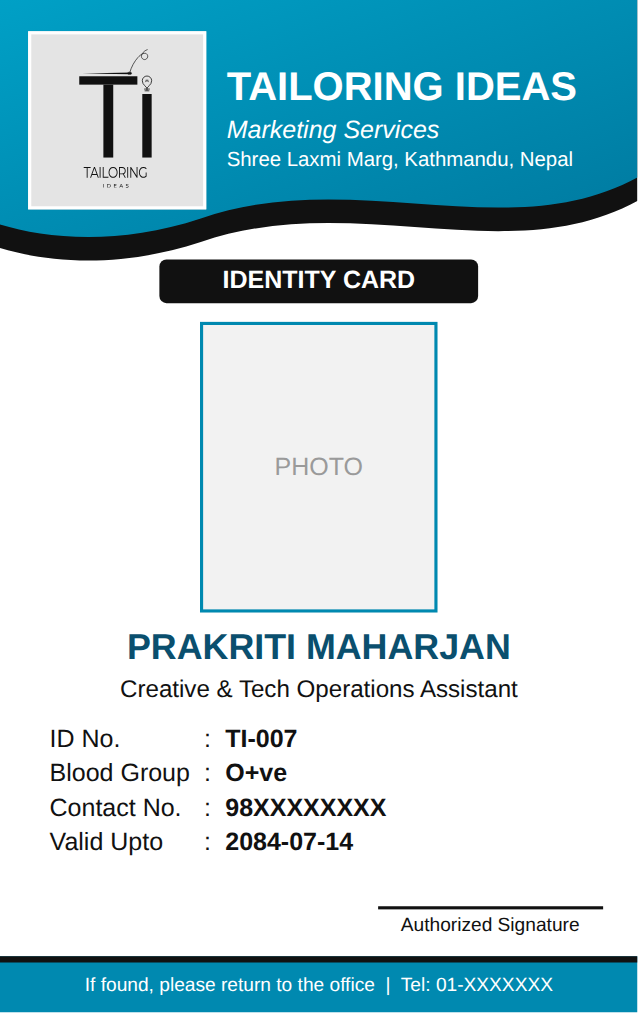
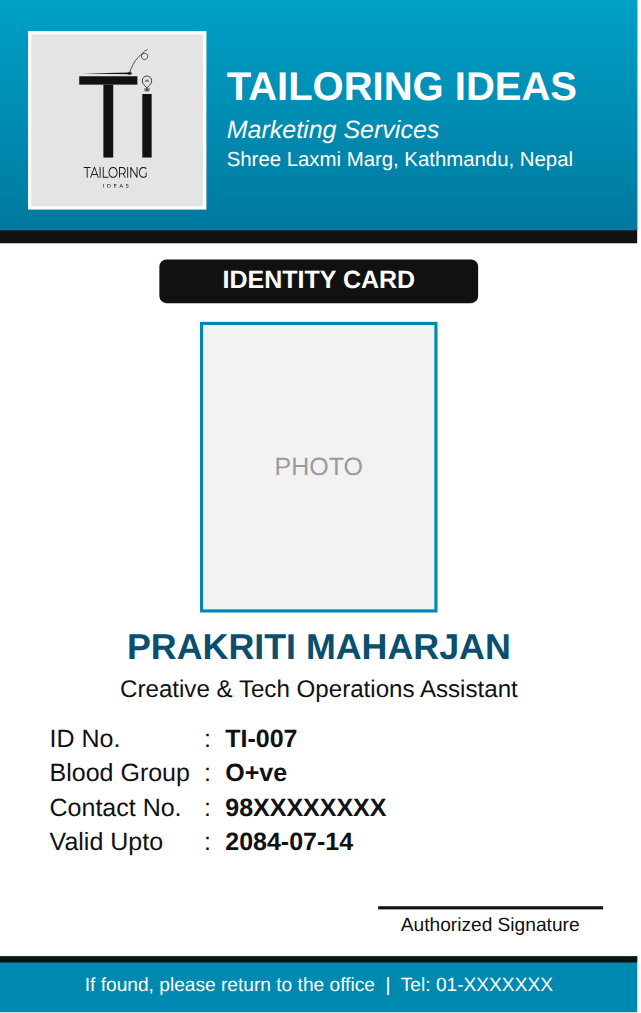
ID card: replace curved header with straight band
Claude-Session: https://claude.ai/code/session_01GwBVucJgBf5TVusLs3gvcd

Changed region(s): [[0.0, 0.153, 0.9984, 0.2754]]

diff --git a/Employee_ID_Card/Final_Option1/ID_Card_Front.html b/Employee_ID_Card/Final_Option1/ID_Card_Front.html
@@ -23,9 +23,9 @@ td:nth-child(2){padding:0 1.2mm}
 @page{size:54mm 85.6mm;margin:0}body{margin:0}</style></head><body>
 <div class="card">
   <svg class="wave" viewBox="0 0 540 250" preserveAspectRatio="none">
-    <defs><linearGradient id="g" x1="0" y1="0" x2="1" y2="1"><stop offset="0" stop-color="#00a0c6"/><stop offset="1" stop-color="#00799f"/></linearGradient></defs>
-    <path d="M0 0 H540 V170 C 430 230, 300 160, 170 205 C 100 228, 40 222, 0 210 Z" fill="#111"/>
-    <path d="M0 0 H540 V150 C 430 210, 300 140, 170 185 C 100 208, 40 202, 0 190 Z" fill="url(#g)"/>
+    <defs><linearGradient id="g" x1="0" y1="0" x2="0" y2="1"><stop offset="0" stop-color="#00a0c6"/><stop offset="1" stop-color="#00799f"/></linearGradient></defs>
+    <rect x="0" y="0" width="540" height="206" fill="#111"/>
+    <rect x="0" y="0" width="540" height="195" fill="url(#g)"/>
   </svg>
   <div class="hd">
     <div class="lg"><svg xmlns="http://www.w3.org/2000/svg" viewBox="-12 6 216 302"><rect x="22" y="72" width="118" height="17" fill="#111111"/><rect x="71" y="89" width="20" height="148" fill="#111111"/><rect x="150" y="108" width="19" height="129" fill="#111111"/><path d="M28 66.2 L128 64.2 L128 67.8 Z" fill="#111111"/><ellipse cx="124" cy="66" rx="4.2" ry="2.2" fill="none" stroke="#111111" stroke-width="1.3"/><path d="M124 66 C 128 52, 134 42, 141 34 C 147 27, 156 22, 160 28 C 164 34, 156 42, 150 36 C 145 31, 151 21, 160 18" fill="none" stroke="#111111" stroke-width="1.4" stroke-linecap="round"/><path d="M159.5 101 L159.5 97 C 159.5 93, 150 90, 150 81 A 9.5 9.5 0 1 1 169 81 C 169 90, 159.5 93, 159.5 97" fill="none" stroke="#111111" stroke-width="1.6" stroke-linejoin="round"/><path d="M154.5 98 H164.5 M155.5 101.5 H163.5" stroke="#111111" stroke-width="1.6" stroke-linecap="round"/><path d="M156 84 L158 79 L159.5 83 L161 79 L163 84" fill="none" stroke="#111111" stroke-width="1" stroke-linejoin="round"/><path d="M37.16319999999999 278.0V258.284H31.062399999999986V256.3H45.09919999999999V258.284H38.99839999999999V278.0Z M44.04799999999999 278.0 51.98399999999999 256.3H53.79439999999999L61.73039999999999 278.0H59.79599999999999L52.50479999999999 257.633H53.24879999999999L45.95759999999999 278.0ZM47.17279999999999 272.203 47.71839999999999 270.343H57.81199999999999L58.35759999999999 272.203Z M63.40719999999999 278.0V256.3H65.24239999999999V278.0Z M69.6968 278.0V256.3H71.532V276.016H81.25359999999999V278.0Z M90.69279999999999 278.186Q88.7336 278.186 87.05959999999999 277.3645Q85.3856 276.543 84.15799999999999 275.0395Q82.93039999999999 273.536 82.24839999999999 271.5365Q81.56639999999999 269.537 81.56639999999999 267.15Q81.56639999999999 264.763 82.24839999999999 262.7635Q82.93039999999999 260.764 84.15799999999999 259.2605Q85.3856 257.757 87.0472 256.9355Q88.7088 256.114 90.69279999999999 256.114Q92.652 256.114 94.31360000000001 256.9355Q95.9752 257.757 97.2028 259.245Q98.43039999999999 260.733 99.1124 262.748Q99.7944 264.763 99.7944 267.15Q99.7944 269.537 99.1124 271.552Q98.43039999999999 273.567 97.2028 275.055Q95.9752 276.543 94.31360000000001 277.3645Q92.652 278.186 90.69279999999999 278.186ZM90.69279999999999 276.14Q92.2552 276.14 93.582 275.4735Q94.9088 274.807 95.88839999999999 273.5825Q96.868 272.358 97.4136 270.7305Q97.9592 269.103 97.9592 267.15Q97.9592 265.197 97.4136 263.5695Q96.868 261.942 95.88839999999999 260.7175Q94.9088 259.493 93.582 258.8265Q92.2552 258.16 90.69279999999999 258.16Q89.1304 258.16 87.7912 258.8265Q86.452 259.493 85.4724 260.7175Q84.49279999999999 261.942 83.9348 263.5695Q83.37679999999999 265.197 83.37679999999999 267.15Q83.37679999999999 269.072 83.9348 270.71500000000003Q84.49279999999999 272.358 85.4724 273.5825Q86.452 274.807 87.7912 275.4735Q89.1304 276.14 90.69279999999999 276.14Z M102.7112 278.0V256.3H109.2088Q112.5072 256.3 114.40440000000001 258.2685Q116.30160000000001 260.237 116.30160000000001 263.74Q116.30160000000001 266.034 115.446 267.6925Q114.5904 269.351 113.00319999999999 270.2345Q111.416 271.118 109.2088 271.118H103.728L104.5464 270.064V278.0ZM114.5656 278.0 110.1016 270.126H112.0856L116.5744 278.0ZM104.5464 270.25 103.728 269.165H109.1592Q111.7632 269.165 113.1148 267.73900000000003Q114.46640000000001 266.313 114.46640000000001 263.74Q114.46640000000001 261.136 113.1148 259.71000000000004Q111.7632 258.284 109.1592 258.284H103.728L104.5464 257.199Z M119.44160000000001 278.0V256.3H121.27680000000001V278.0Z M125.7312 278.0V256.3H127.244L139.2224 275.148H138.4288V256.3H140.23919999999998V278.0H138.7264L126.77279999999999 259.152H127.5664V278.0Z M152.3072 278.186Q150.32319999999999 278.186 148.6492 277.3645Q146.9752 276.543 145.7476 275.055Q144.52 273.567 143.83800000000002 271.552Q143.156 269.537 143.156 267.15Q143.156 264.763 143.83800000000002 262.748Q144.52 260.733 145.76 259.245Q147.0 257.757 148.674 256.9355Q150.348 256.114 152.332 256.114Q154.316 256.114 155.96519999999998 256.889Q157.6144 257.664 158.78 259.245L157.6392 260.702Q156.548 259.338 155.2336 258.749Q153.9192 258.16 152.4064 258.16Q150.7944 258.16 149.44279999999998 258.8265Q148.0912 259.493 147.08679999999998 260.7175Q146.0824 261.942 145.5244 263.5695Q144.9664 265.197 144.9664 267.15Q144.9664 269.072 145.5244 270.71500000000003Q146.0824 272.358 147.08679999999998 273.5825Q148.0912 274.807 149.44279999999998 275.4735Q150.7944 276.14 152.3816 276.14Q153.8696 276.14 155.19639999999998 275.582Q156.5232 275.024 157.6392 273.691L158.6808 275.427Q157.4408 276.791 155.7792 277.4885Q154.1176 278.186 152.3072 278.186ZM158.6808 275.427 156.92 275.148V267.15H158.6808Z" fill="#111111"/><path d="M70.51775 298.0V290.65H71.56775V298.0Z M78.77275 298.0V290.65H81.87025Q83.04625 290.65 83.94399999999999 291.11199999999997Q84.84174999999999 291.574 85.34049999999999 292.4035Q85.83924999999999 293.233 85.83924999999999 294.325Q85.83924999999999 295.417 85.34049999999999 296.24649999999997Q84.84174999999999 297.076 83.94399999999999 297.538Q83.04625 298.0 81.87025 298.0ZM79.82275 297.0865H81.80725Q82.72075 297.0865 83.38749999999999 296.74Q84.05425 296.3935 84.42175 295.76875Q84.78925 295.144 84.78925 294.325Q84.78925 293.4955 84.42175 292.876Q84.05425 292.2565 83.38749999999999 291.90999999999997Q82.72075 291.5635 81.80725 291.5635H79.82275Z M92.44575 298.0V290.65H97.63275V291.5635H93.49575V297.0865H97.77974999999999V298.0ZM93.40125 294.7135V293.821H97.18124999999999V294.7135Z M103.36775 298.0 106.69624999999999 290.65H107.73575L111.07475 298.0H109.97224999999999L107.00075 291.238H107.42075L104.44924999999999 298.0ZM104.78524999999999 296.1625 105.06875 295.3225H109.20575L109.51025 296.1625Z M119.30874999999999 298.084Q118.46874999999999 298.084 117.70224999999999 297.82675Q116.93574999999998 297.5695 116.49474999999998 297.16L116.88324999999999 296.341Q117.30324999999999 296.7085 117.95424999999999 296.95000000000005Q118.60524999999998 297.1915 119.30874999999999 297.1915Q119.94924999999999 297.1915 120.34825 297.04449999999997Q120.74725 296.8975 120.93625 296.64025Q121.12525 296.383 121.12525 296.0575Q121.12525 295.6795 120.87849999999999 295.44849999999997Q120.63174999999998 295.2175 120.23799999999999 295.07574999999997Q119.84424999999999 294.934 119.37174999999999 294.829Q118.89924999999998 294.724 118.42149999999998 294.58225Q117.94375 294.4405 117.54999999999998 294.22Q117.15624999999999 293.9995 116.91474999999998 293.62675Q116.67324999999998 293.254 116.67324999999998 292.666Q116.67324999999998 292.099 116.97249999999998 291.62125000000003Q117.27174999999998 291.1435 117.89649999999997 290.85474999999997Q118.52124999999998 290.566 119.48724999999999 290.566Q120.12774999999999 290.566 120.75774999999999 290.734Q121.38774999999998 290.902 121.84974999999999 291.217L121.50324999999998 292.057Q121.03074999999998 291.742 120.50574999999998 291.60025Q119.98074999999999 291.4585 119.48724999999999 291.4585Q118.86774999999999 291.4585 118.46874999999999 291.616Q118.06974999999998 291.7735 117.886 292.036Q117.70224999999999 292.2985 117.70224999999999 292.624Q117.70224999999999 293.0125 117.94899999999998 293.2435Q118.19574999999999 293.4745 118.58949999999999 293.611Q118.98324999999998 293.7475 119.45575 293.85775Q119.92824999999999 293.968 120.40599999999999 294.10450000000003Q120.88374999999999 294.241 121.27749999999999 294.4615Q121.67124999999999 294.682 121.91274999999999 295.04949999999997Q122.15424999999999 295.417 122.15424999999999 295.9945Q122.15424999999999 296.551 121.84974999999999 297.02875Q121.54524999999998 297.5065 120.90999999999998 297.79525Q120.27474999999998 298.084 119.30874999999999 298.084Z" fill="#111111"/></svg></div>

diff --git a/Employee_ID_Card/source/final1.py b/Employee_ID_Card/source/final1.py
@@ -19,9 +19,9 @@ LOGO = logo_svg("#111111")
 CARD = f"""
 <div class="card">
   <svg class="wave" viewBox="0 0 540 250" preserveAspectRatio="none">
-    <defs><linearGradient id="g" x1="0" y1="0" x2="1" y2="1"><stop offset="0" stop-color="#00a0c6"/><stop offset="1" stop-color="#00799f"/></linearGradient></defs>
-    <path d="M0 0 H540 V170 C 430 230, 300 160, 170 205 C 100 228, 40 222, 0 210 Z" fill="#111"/>
-    <path d="M0 0 H540 V150 C 430 210, 300 140, 170 185 C 100 208, 40 202, 0 190 Z" fill="url(#g)"/>
+    <defs><linearGradient id="g" x1="0" y1="0" x2="0" y2="1"><stop offset="0" stop-color="#00a0c6"/><stop offset="1" stop-color="#00799f"/></linearGradient></defs>
+    <rect x="0" y="0" width="540" height="206" fill="#111"/>
+    <rect x="0" y="0" width="540" height="195" fill="url(#g)"/>
   </svg>
   <div class="hd">
     <div class="lg">{LOGO}</div>
